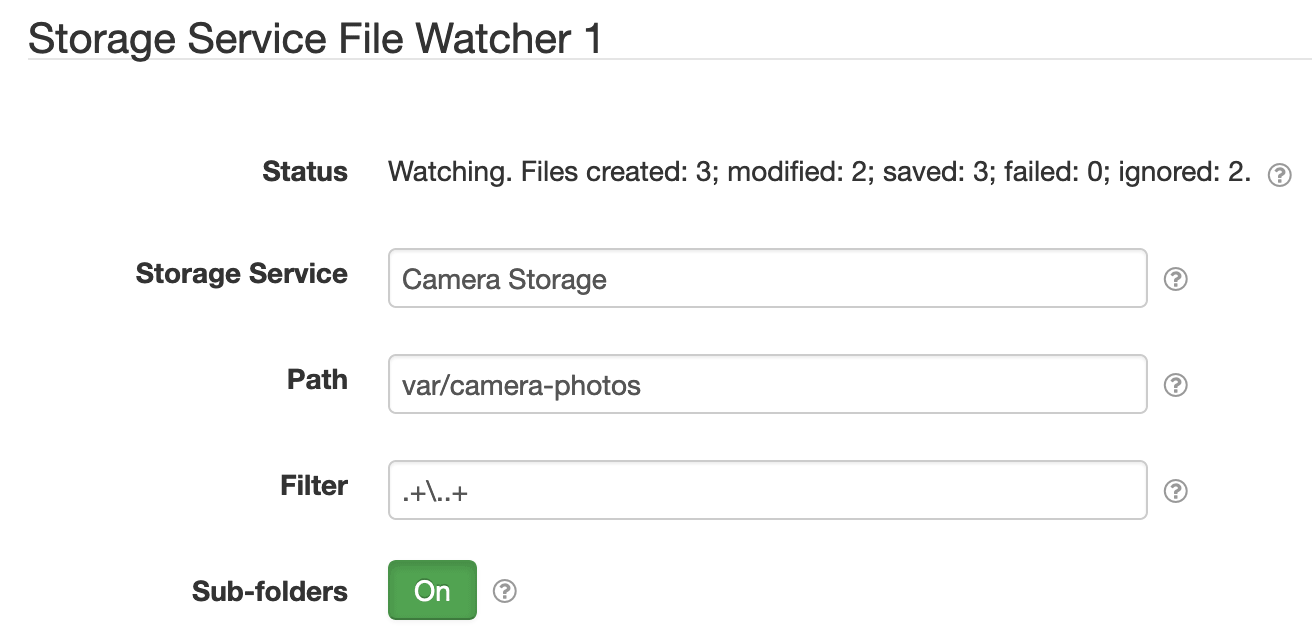
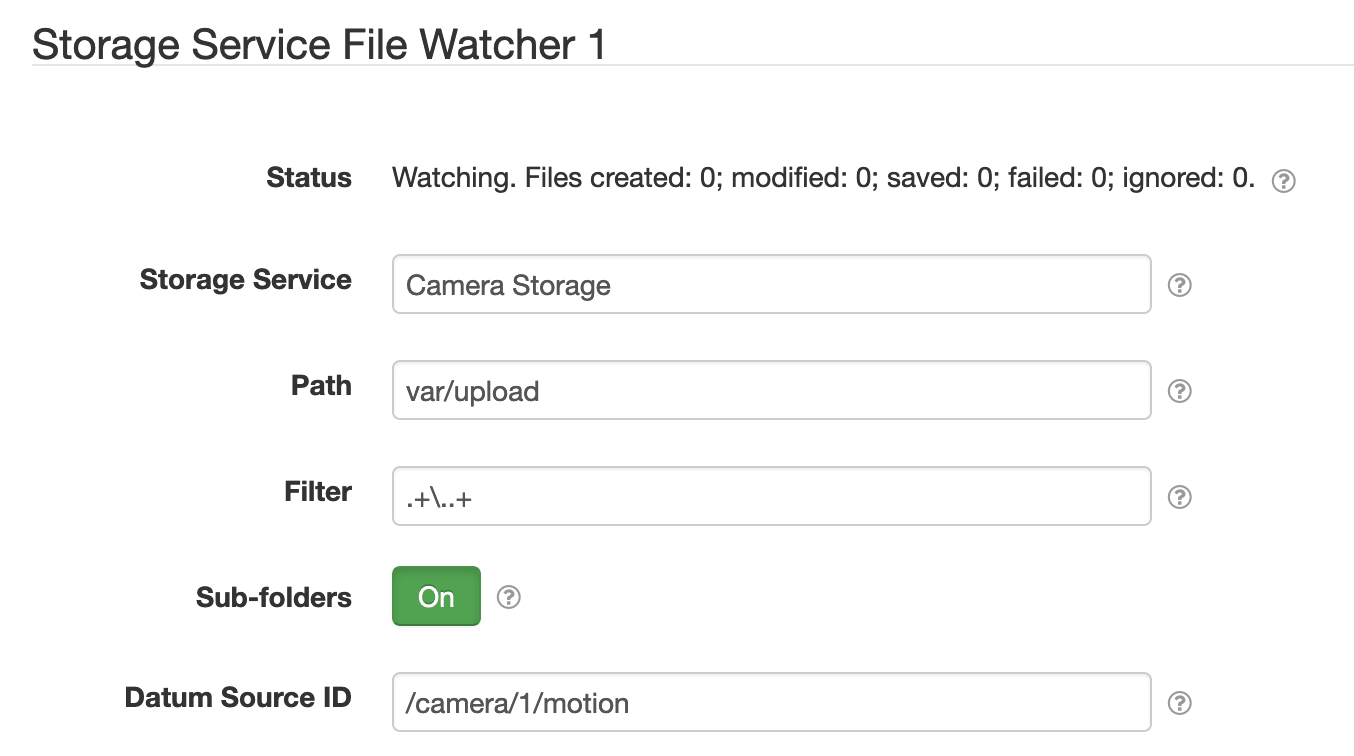
Support generating Datum out of resource storage save events.

diff --git a/net.solarnetwork.node.upload.resource/src/net/solarnetwork/node/upload/resource/ResourceStorageServiceDirectoryWatcher.java b/net.solarnetwork.node.upload.resource/src/net/solarnetwork/node/upload/resource/ResourceStorageServiceDirectoryWatcher.java
@@ -44,6 +44,7 @@ import java.util.HashMap;
 import java.util.List;
 import java.util.Locale;
 import java.util.Map;
+import java.util.concurrent.Executor;
 import java.util.concurrent.atomic.AtomicIntegerArray;
 import java.util.regex.Pattern;
 import java.util.regex.PatternSyntaxException;
@@ -85,6 +86,7 @@ public class ResourceStorageServiceDirectoryWatcher extends BaseIdentifiable
 	private final Logger log = LoggerFactory.getLogger(getClass());
 
 	private final OptionalService<ResourceStorageService> storageService;
+	private final Executor executor;
 	private final AtomicIntegerArray statistics;
 	private OptionalService<DatumDao<GeneralNodeDatum>> datumDao;
 	private OptionalService<EventAdmin> eventAdmin;
@@ -101,11 +103,20 @@ public class ResourceStorageServiceDirectoryWatcher extends BaseIdentifiable
 	 * 
 	 * @param storageService
 	 *        the storage service to use
+	 * @param executor
+	 *        the executor to use
 	 */
-	public ResourceStorageServiceDirectoryWatcher(
-			OptionalService<ResourceStorageService> storageService) {
+	public ResourceStorageServiceDirectoryWatcher(OptionalService<ResourceStorageService> storageService,
+			Executor executor) {
 		super();
+		if ( storageService == null ) {
+			throw new IllegalArgumentException("The storageService argument must not be null.");
+		}
 		this.storageService = storageService;
+		if ( executor == null ) {
+			throw new IllegalArgumentException("The executor argument must not be null.");
+		}
+		this.executor = executor;
 		this.statistics = new AtomicIntegerArray(Statistic.values().length);
 		this.filter = DEFAULT_FILTER;
 	}
@@ -168,6 +179,7 @@ public class ResourceStorageServiceDirectoryWatcher extends BaseIdentifiable
 		result.add(new BasicTextFieldSettingSpecifier("path", ""));
 		result.add(new BasicTextFieldSettingSpecifier("filterValue", DEFAULT_FILTER.pattern()));
 		result.add(new BasicToggleSettingSpecifier("recursive", Boolean.FALSE));
+		result.add(new BasicTextFieldSettingSpecifier("resourceStorageDatumSourceId", ""));
 		return result;
 	}
 
@@ -208,7 +220,16 @@ public class ResourceStorageServiceDirectoryWatcher extends BaseIdentifiable
 						statistics.incrementAndGet(Statistic.Saved.ordinal());
 						log.info("Resource {} saved to {}.", resourcePath, service);
 					}
-					generateDatum(service, savePath, resourcePath);
+
+					// save any generated datum in a new thread so we don't block ForkJoinPool
+					executor.execute(new Runnable() {
+
+						@Override
+						public void run() {
+							generateDatum(service, savePath, resourcePath);
+						}
+
+					});
 				});
 	}
 
@@ -238,6 +259,14 @@ public class ResourceStorageServiceDirectoryWatcher extends BaseIdentifiable
 		final GeneralNodeDatum d = new GeneralNodeDatum();
 		d.setSourceId(sourceId);
 		d.setCreated(new Date());
+		if ( Files.isReadable(resourcePath) ) {
+			try {
+				d.setCreated(new Date(Files.getLastModifiedTime(resourcePath).toMillis()));
+			} catch ( IOException e ) {
+				log.warn("Unable to determine modified time of resource {}: {}", resourcePath,
+						e.toString());
+			}
+		}
 
 		final URL resourceStorageUrl = service.resourceStorageUrl(savePath);
 		if ( resourceStorageUrl != null ) {

diff --git a/net.solarnetwork.node.upload.resource.test/src/net/solarnetwork/node/upload/resource/test/ResourceStorageServiceDirectoryWatcherTests.java b/net.solarnetwork.node.upload.resource.test/src/net/solarnetwork/node/upload/resource/test/ResourceStorageServiceDirectoryWatcherTests.java
@@ -57,6 +57,7 @@ import net.solarnetwork.io.ResourceStorageService;
 import net.solarnetwork.node.dao.DatumDao;
 import net.solarnetwork.node.domain.GeneralNodeDatum;
 import net.solarnetwork.node.upload.resource.ResourceStorageServiceDirectoryWatcher;
+import net.solarnetwork.test.CallingThreadExecutorService;
 import net.solarnetwork.util.StaticOptionalService;
 
 /**
@@ -84,8 +85,8 @@ public class ResourceStorageServiceDirectoryWatcherTests {
 		storageService = EasyMock.createMock(ResourceStorageService.class);
 		datumDao = EasyMock.createMock(DatumDao.class);
 		eventAdmin = EasyMock.createMock(EventAdmin.class);
-		watcher = new ResourceStorageServiceDirectoryWatcher(
-				new StaticOptionalService<>(storageService));
+		watcher = new ResourceStorageServiceDirectoryWatcher(new StaticOptionalService<>(storageService),
+				new CallingThreadExecutorService());
 		watcher.setPath(tmpDir.toAbsolutePath().toString());
 		watcher.setResourceStorageDatumSourceId(TEST_SOURCE_ID);
 		watcher.setDatumDao(new StaticOptionalService<>(datumDao));

diff --git a/net.solarnetwork.node.upload.resource/README.md b/net.solarnetwork.node.upload.resource/README.md
@@ -18,10 +18,37 @@ a **Storage Service File Watcher** component will become available.
 Each service configuration contains the following settings:
 
 | Setting         | Description  |
-|-----------------|--------------|
+|:----------------|:-------------|
 | Storage Service | The **Service Name** of the Storage Service component to copy files to. |
 | Path            | The OS file system path to monitor. |
 | Filter          | A regular expression to filter, so that only files matching the filter are copied. |
 | Sub-folders     | Toggle watching for files in sub-folders of <b>Path</b>. |
+| Datum Source ID | If configured then datum will be generated each time a file is saved to the configured Storage Service, with this source ID and a `url` property that links to the stored resource. |
+
+# Generated Datum
+
+When a <b>Datum Source ID</b> is configured, then each time a resource is saved to the configured 
+Storage Service a datum will be generated. The datum will include the following properties:
+
+| Property | Classification | Description |
+|:---------|:---------------|:------------|
+| `size`   | `i`            | The size of the file, in bytes. |
+| `path`   | `s`            | The path to the file, relative to the <b>Path</b> setting. |
+| `url`    | `s`            | The storage URL, as reported by the configured Storage Service. |
+
+For example, a generated datum might look like this:
+
+```json
+{
+	"created": "2019-10-19 19:20:14.612Z",
+	"nodeId": 179,
+	"sourceId": "/camera/1/motion",
+	"localDate": "2019-10-20",
+	"localTime": "08:20",
+	"size": 31895,
+	"url": "https://example-testing.s3.us-west-2.amazonaws.com/solarnode-s3-storage-settings.png",
+	"path": "solarnode-s3-storage-settings.png"
+}
+```
 
 [s3-storage-service]: ../net.solarnetwork.node.io.s3/
